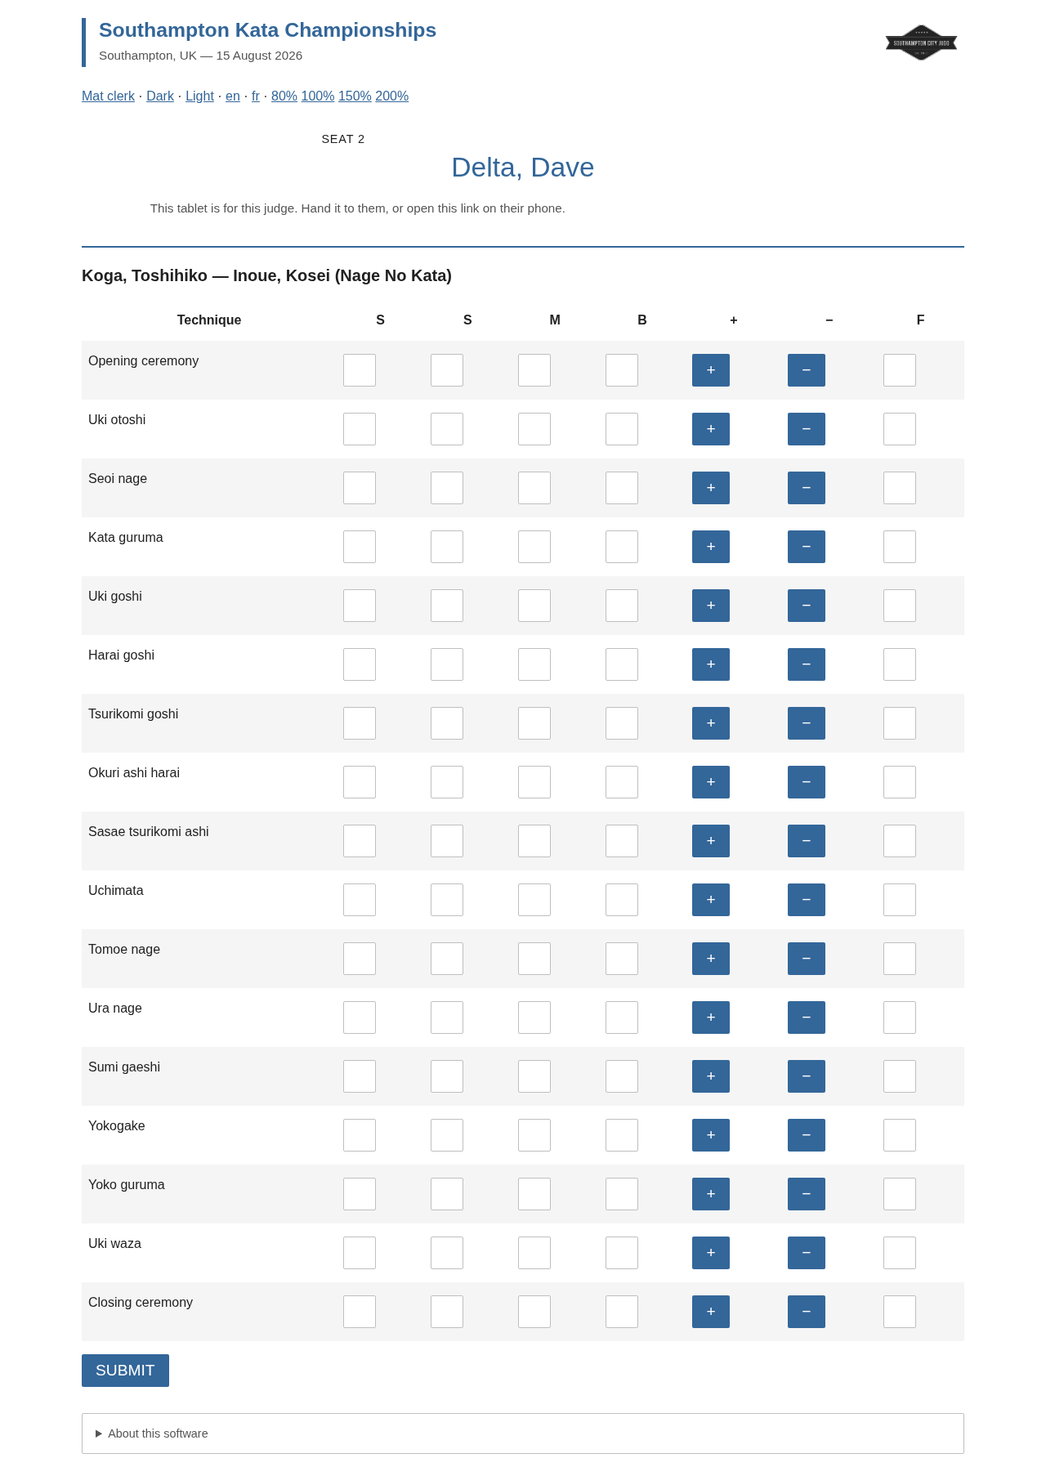
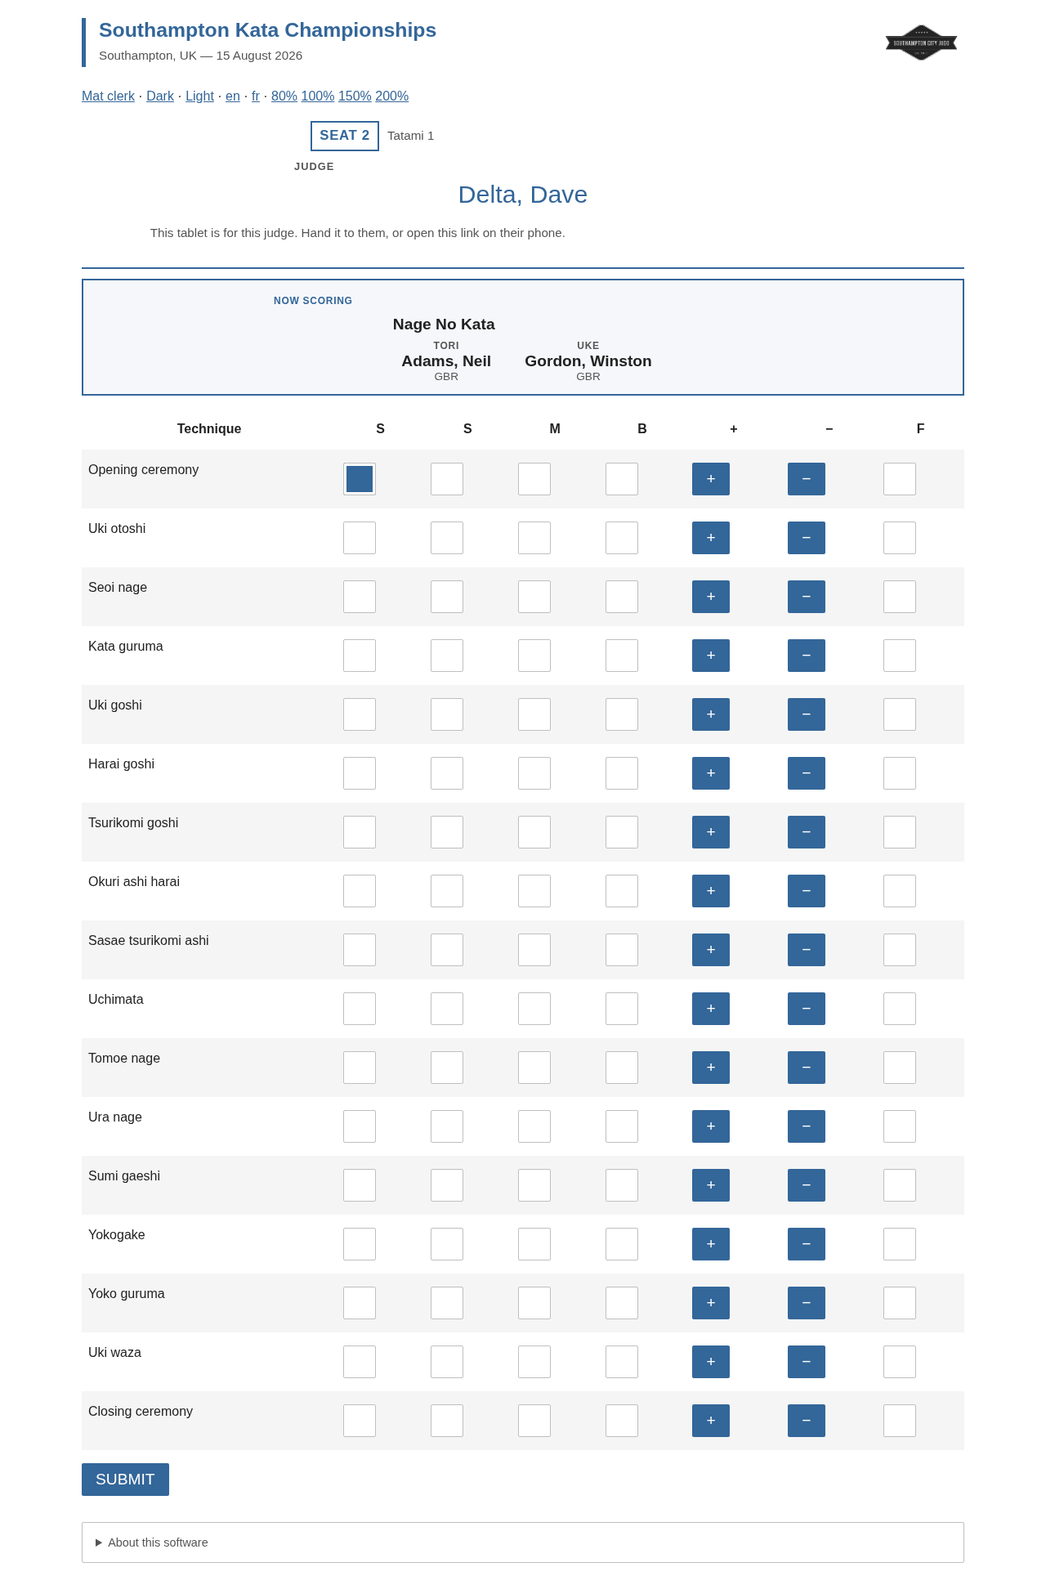
Document IJF import, live scoring, and the scoring audit on the marketing site.

diff --git a/index.html b/index.html
@@ -7,7 +7,7 @@
     <title>Judo Kata Tournament Manager | Scoring Software</title>
     <meta
       name="description"
-      content="Organise and score judo kata on a laptop LAN. Judge tablets, announcer and live results, EJU or BJA-style scoring, and printable PDF packs."
+      content="Organise and score judo kata on a laptop LAN. Judge tablets with live scores, announcer and results, IJF import, EJU or BJA-style scoring, and printable PDF packs."
     />
     <meta name="author" content="Lance Wicks" />
     <meta name="copyright" content="Lance Wicks" />
@@ -21,7 +21,7 @@
     />
     <meta
       property="og:description"
-      content="Organise and score judo kata on a laptop LAN. Judge tablets, announcer and live results, EJU or BJA-style scoring, and printable PDF packs."
+      content="Organise and score judo kata on a laptop LAN. Judge tablets with live scores, announcer and results, IJF import, EJU or BJA-style scoring, and printable PDF packs."
     />
     <meta
       property="og:image"
@@ -34,7 +34,7 @@
     />
     <meta
       name="twitter:description"
-      content="Organise and score judo kata on a laptop LAN. Judge tablets, announcer and live results, EJU or BJA-style scoring, and printable PDF packs."
+      content="Organise and score judo kata on a laptop LAN. Judge tablets with live scores, announcer and results, IJF import, EJU or BJA-style scoring, and printable PDF packs."
     />
     <meta
       name="twitter:image"
@@ -59,7 +59,7 @@
             "@id": "https://katajudo.com/#website",
             "name": "Judo Kata Tournament Manager",
             "url": "https://katajudo.com/",
-            "description": "Software to organise and score judo kata tournaments, with judge tablets, hall displays, and printable PDF scoresheets.",
+            "description": "Software to organise and score judo kata tournaments, with judge tablets, live provisional scores, hall displays, IJF import, and printable PDF scoresheets.",
             "mainEntity": {
               "@id": "https://katajudo.com/#app"
             }
@@ -68,7 +68,7 @@
             "@type": "SoftwareApplication",
             "@id": "https://katajudo.com/#app",
             "name": "Judo Kata Tournament Manager",
-            "description": "Software to organise and score judo kata tournaments, with judge tablets, hall displays, and printable PDF scoresheets.",
+            "description": "Software to organise and score judo kata tournaments, with judge tablets, live provisional scores, hall displays, IJF import, and printable PDF scoresheets.",
             "applicationCategory": "SportsApplication",
             "operatingSystem": "Web browser",
             "license": "https://www.gnu.org/licenses/agpl-3.0.html",
@@ -125,7 +125,8 @@
                 in Config
               </li>
               <li>
-                Add competitors and judges by hand or import them from CSV
+                Add competitors and judges by hand, import them from CSV, or
+                pull competitors from this year’s IJF kata events on Judobase
               </li>
               <li>
                 Run the draw, seat the panel, and assign performances to mats
@@ -135,8 +136,8 @@
                 the table
               </li>
               <li>
-                Lock clerk pages with a PIN; share public links for tablets and
-                projectors
+                Lock clerk pages with a PIN, including Config and the scoring
+                audit; share public links for tablets and projectors
               </li>
               <li>
                 Keep each event in its own SQLite file; no internet required on
@@ -148,15 +149,16 @@
             <h3>For judges</h3>
             <ul>
               <li>
-                Open a seat URL that shows your name and the pair on the mat
+                Open a seat URL that shows your name, the kata, and tori and
+                uke on the mat
               </li>
               <li>
                 Tap small, medium, and big mistakes, forgotten techniques, and
-                ± corrections
+                ± corrections — each tap is saved at once
               </li>
               <li>
-                Submit when the kata finishes; the tablet waits for the rest of
-                the panel
+                Submit when the kata finishes to lock the seat; the tablet waits
+                for the rest of the panel
               </li>
               <li>
                 Sit as shadow to record a score that is stored and ignored in
@@ -176,8 +178,8 @@
                 judging team, who is on deck
               </li>
               <li>
-                Project live results that update in place and can rotate through
-                kata
+                Project live results that update as judges tap, with provisional
+                points and an in-progress marker, and can rotate through kata
               </li>
               <li>Switch English or French on the live screens</li>
               <li>
@@ -219,20 +221,32 @@
 
         <h3>Competitors</h3>
         <p>
-          Register competitors through the web UI or CSV import. The CSV header
-          is <code>"Country","Given Name","Surname"</code> with quoted fields.
-          Each person can enter multiple categories. Create pairs after
-          individuals are in the system.
+          Register competitors through the web UI, CSV import, or from this
+          year’s IJF kata events on Judobase. The CSV header is
+          <code>"Country","Given Name","Surname"</code> with quoted fields.
+          Judobase import adds people and skips anyone already in this event
+          (same name and country). Pairing is done on the Pairs page. Each
+          person can enter multiple categories.
         </p>
         <figure>
           <img
             src="screenshots/Competitors-Kata.png"
-            alt="Competitors page listing registered athletes with country codes"
+            alt="Competitors page with Add competitor, Import CSV, and Import from IJF event, listing registered athletes"
             loading="lazy"
             width="1046"
-            height="669"
+            height="735"
           />
           <figcaption>Competitors page</figcaption>
+        </figure>
+        <figure>
+          <img
+            src="screenshots/Import-IJF.png"
+            alt="Import from IJF event page listing this year’s Judobase kata championships with an Import button per event"
+            loading="lazy"
+            width="1046"
+            height="1037"
+          />
+          <figcaption>Import competitors from an IJF event</figcaption>
         </figure>
 
         <h3>Pairs</h3>
@@ -246,7 +260,7 @@
             alt="Pairs page showing competitor pairs and their kata categories"
             loading="lazy"
             width="1046"
-            height="654"
+            height="669"
           />
           <figcaption>Pairs page</figcaption>
         </figure>
@@ -300,39 +314,44 @@
         <p>
           Add a tatami, then assign performances in the order you want them to
           run — or assign several and randomize unfinished (the pair currently
-          on the mat stays put). Mark a seat as shadow if that judge is
-          recording only: the score is stored and ignored in the total.
-          Unsubmit a seat if the judge sent scores too soon, while that
-          performance is still current.
+          on the mat stays put). The clerk page shows who is scoring now, who
+          is on deck and double deck, and completed performances with a link to
+          edit scores. Mark a seat as shadow if that judge is recording only:
+          the score is stored and ignored in the total. Unsubmit a seat if the
+          judge sent scores too soon, while that performance is still current.
         </p>
         <figure>
           <img
             src="screenshots/Mats-Clerk.png"
-            alt="Mat clerk page for Tatami 1 showing current pair, judge seats, shadow and unsubmit controls, and LAN links"
+            alt="Mat clerk page for Tatami 1 showing now scoring, upcoming on-deck pairs, completed performances, judge seats, and LAN links"
             loading="lazy"
             width="1046"
-            height="1164"
+            height="1431"
           />
           <figcaption>Mat clerk page</figcaption>
         </figure>
 
         <h3>Judge tablets</h3>
         <p>
-          Each seat URL is one named judge. For every technique, tap small (S),
-          medium (M), big (B), forgotten (F), and +/− correction. Submit once
-          the kata is finished — you will be asked to confirm. After submit the
-          seat waits until the other official seats submit, then the mat
-          advances. The tablet updates in place when the mat changes. Tablets
-          have dark/light and zoom controls, and they hide the clerk navigation
-          so judges do not wander off.
+          Each seat URL is one named judge. The tablet shows the seat, the
+          judge’s name, the kata, and tori and uke. For every technique, tap
+          small (S), medium (M), big (B), forgotten (F), and +/− correction.
+          Each tap is saved immediately — overview progress, live results, and
+          leaderboards update with provisional scores and an in-progress
+          marker. Submit once the kata is finished — you will be asked to
+          confirm — to lock that seat. After submit the seat waits until the
+          other official seats submit, then the mat advances. The tablet
+          updates in place when the mat changes. Tablets have dark/light and
+          zoom controls, and they hide the clerk navigation so judges do not
+          wander off.
         </p>
         <figure>
           <img
             src="screenshots/Judge-Tablet.png"
-            alt="Judge tablet for seat 2 showing the named judge, current pair, and technique scoring grid with S M B F and plus minus controls"
+            alt="Judge tablet for seat 2 showing the named judge, tori and uke, and technique scoring grid with S M B F and plus minus controls"
             loading="lazy"
             width="1046"
-            height="1467"
+            height="1576"
           />
           <figcaption>Judge tablet seat</figcaption>
         </figure>
@@ -358,8 +377,9 @@
         <h3>Electronic scoresheets</h3>
         <p>
           If a phone fails, the clerk scoresheets write the same scores. Open
-          scoresheets, then kata, pair, and judge. Use +/− on each mistake
-          column. The page total is that judge’s kata score.
+          scoresheets, then kata, pair, and judge. The pair page lists the
+          judges seated for that performance. Use +/− on each mistake column.
+          The page total is that judge’s kata score.
         </p>
         <figure>
           <img
@@ -437,15 +457,17 @@
         <h3>Live results</h3>
         <p>
           Project the ranking on a hall screen — large type, no clerk menu.
-          Scores update in place. Open <code>/results?rotate=1</code> to loop
-          through kata; how long each stays on screen is set in Config. Switch
-          language with <code>?lang=en</code> or <code>fr</code>; use
+          Scores update in place as judges tap, including provisional points
+          while a pair is still being scored, with an in-progress marker and
+          progress %. Open <code>/results?rotate=1</code> to loop through kata;
+          how long each stays on screen is set in Config. Switch language with
+          <code>?lang=en</code> or <code>fr</code>; use
           <code>?theme=dark</code> and <code>?zoom=</code> like the tablets.
         </p>
         <figure>
           <img
             src="screenshots/Live-Results.png"
-            alt="Live results display for Nage-no-Kata showing ranked pairs, points, and who advances"
+            alt="Live results display for Nage-no-Kata showing ranked pairs, points, and an in-progress marker on a pair still being scored"
             loading="lazy"
             width="1046"
             height="654"
@@ -455,19 +477,37 @@
 
         <h3>Leaderboards and CSV</h3>
         <p>
-          Leaderboards are the same ranking for the clerk. Download totals CSV
-          (rank, country, pair, points) and techniques CSV (per judge, per
-          technique).
+          Leaderboards are the same ranking for the clerk, including
+          provisional totals and the in-progress marker while a panel is still
+          scoring. Download totals CSV (rank, country, pair, points) and
+          techniques CSV (per judge, per technique).
         </p>
         <figure>
           <img
             src="screenshots/Leaderboard-Kata.png"
-            alt="Leaderboard page ranking pairs by total score with CSV download links"
+            alt="Leaderboard page ranking pairs by total score with CSV download links and an in-progress marker"
             loading="lazy"
             width="1046"
             height="654"
           />
           <figcaption>Leaderboard page</figcaption>
+        </figure>
+
+        <h3>Scoring audit</h3>
+        <p>
+          Under Admin, the scoring audit log records tablet taps, submits, and
+          unsubmits. Filter by mat, performance, seat, action, judge, or time
+          if you need to see what was marked and when.
+        </p>
+        <figure>
+          <img
+            src="screenshots/Scoring-Audit.png"
+            alt="Admin scoring audit log with filters for mat, seat, action, and judge, and a table of recent score draft updates"
+            loading="lazy"
+            width="1046"
+            height="899"
+          />
+          <figcaption>Scoring audit log</figcaption>
         </figure>
 
         <h3>Category progress</h3>
@@ -568,8 +608,9 @@
           <li>Optional Docker packaging for consistent deployment</li>
           <li>
             Organiser PIN protects clerk pages (competitors, judges, pairs,
-            scoresheets, draw, config, mats clerk, leaderboards). Results,
-            announcer, judge seats, and schedule stay reachable on the LAN
+            scoresheets, draw, config, mats clerk, leaderboards, scoring
+            audit). Results, announcer, judge seats, and schedule stay
+            reachable on the LAN
           </li>
           <li>
             A public token gives <code>/p/…</code> links for tablets, announcer,
